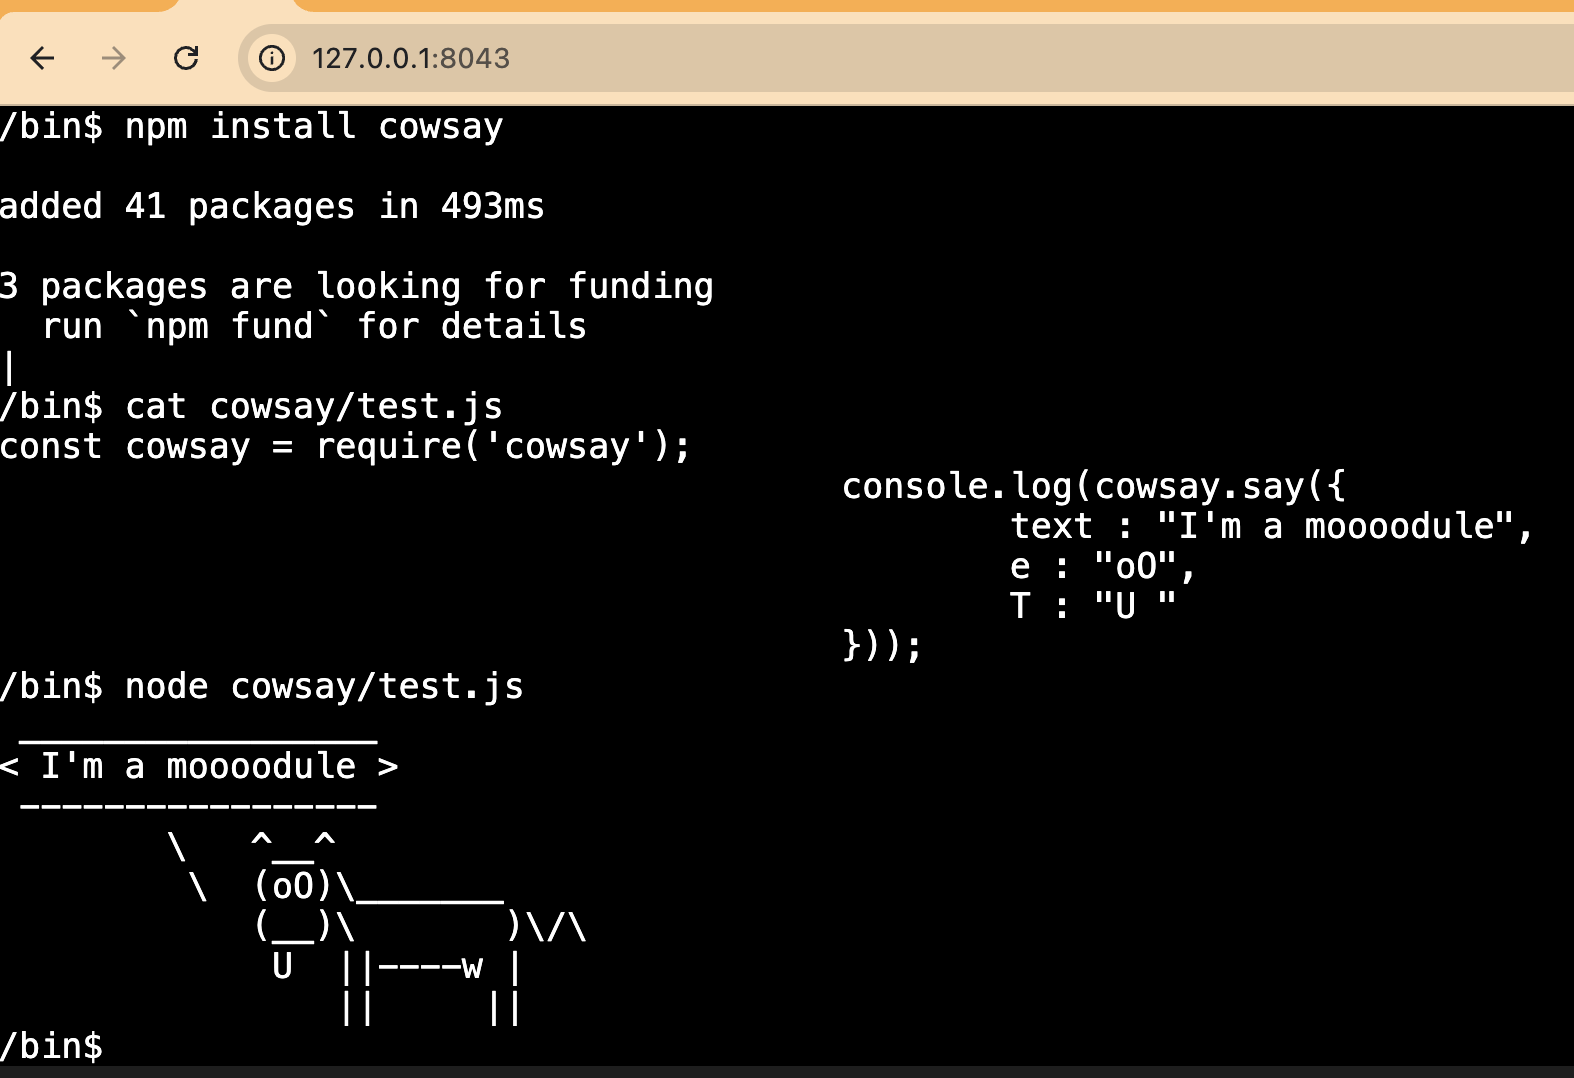
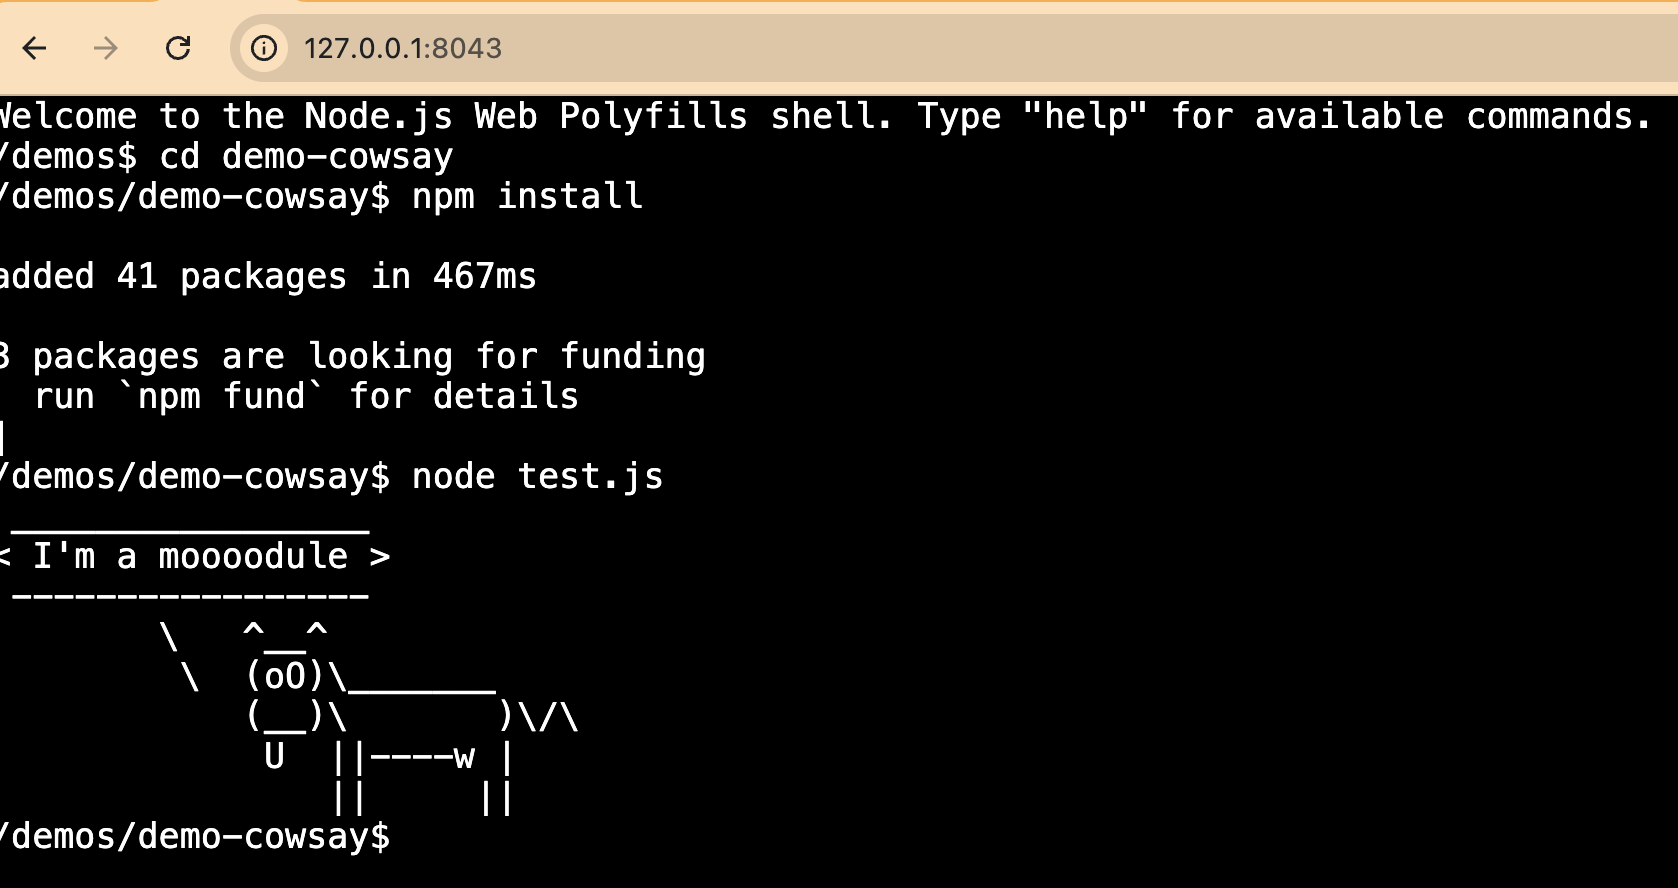
Document more limitations

diff --git a/README.md b/README.md
@@ -34,6 +34,9 @@ Run these in the XTerm shell at http://127.0.0.1:8043/.
 stuck in your current `cwd`! This means you must refresh the page before going to another
 demo and running `npm install` there! This will be fixed in the future.
 
+Also! The terminal will not always show you the prompt once it's ready for interactions! If
+your command finished, just press enter again and you'll be back in the interactive shell!
+
 #### Hello world
 
 ```
